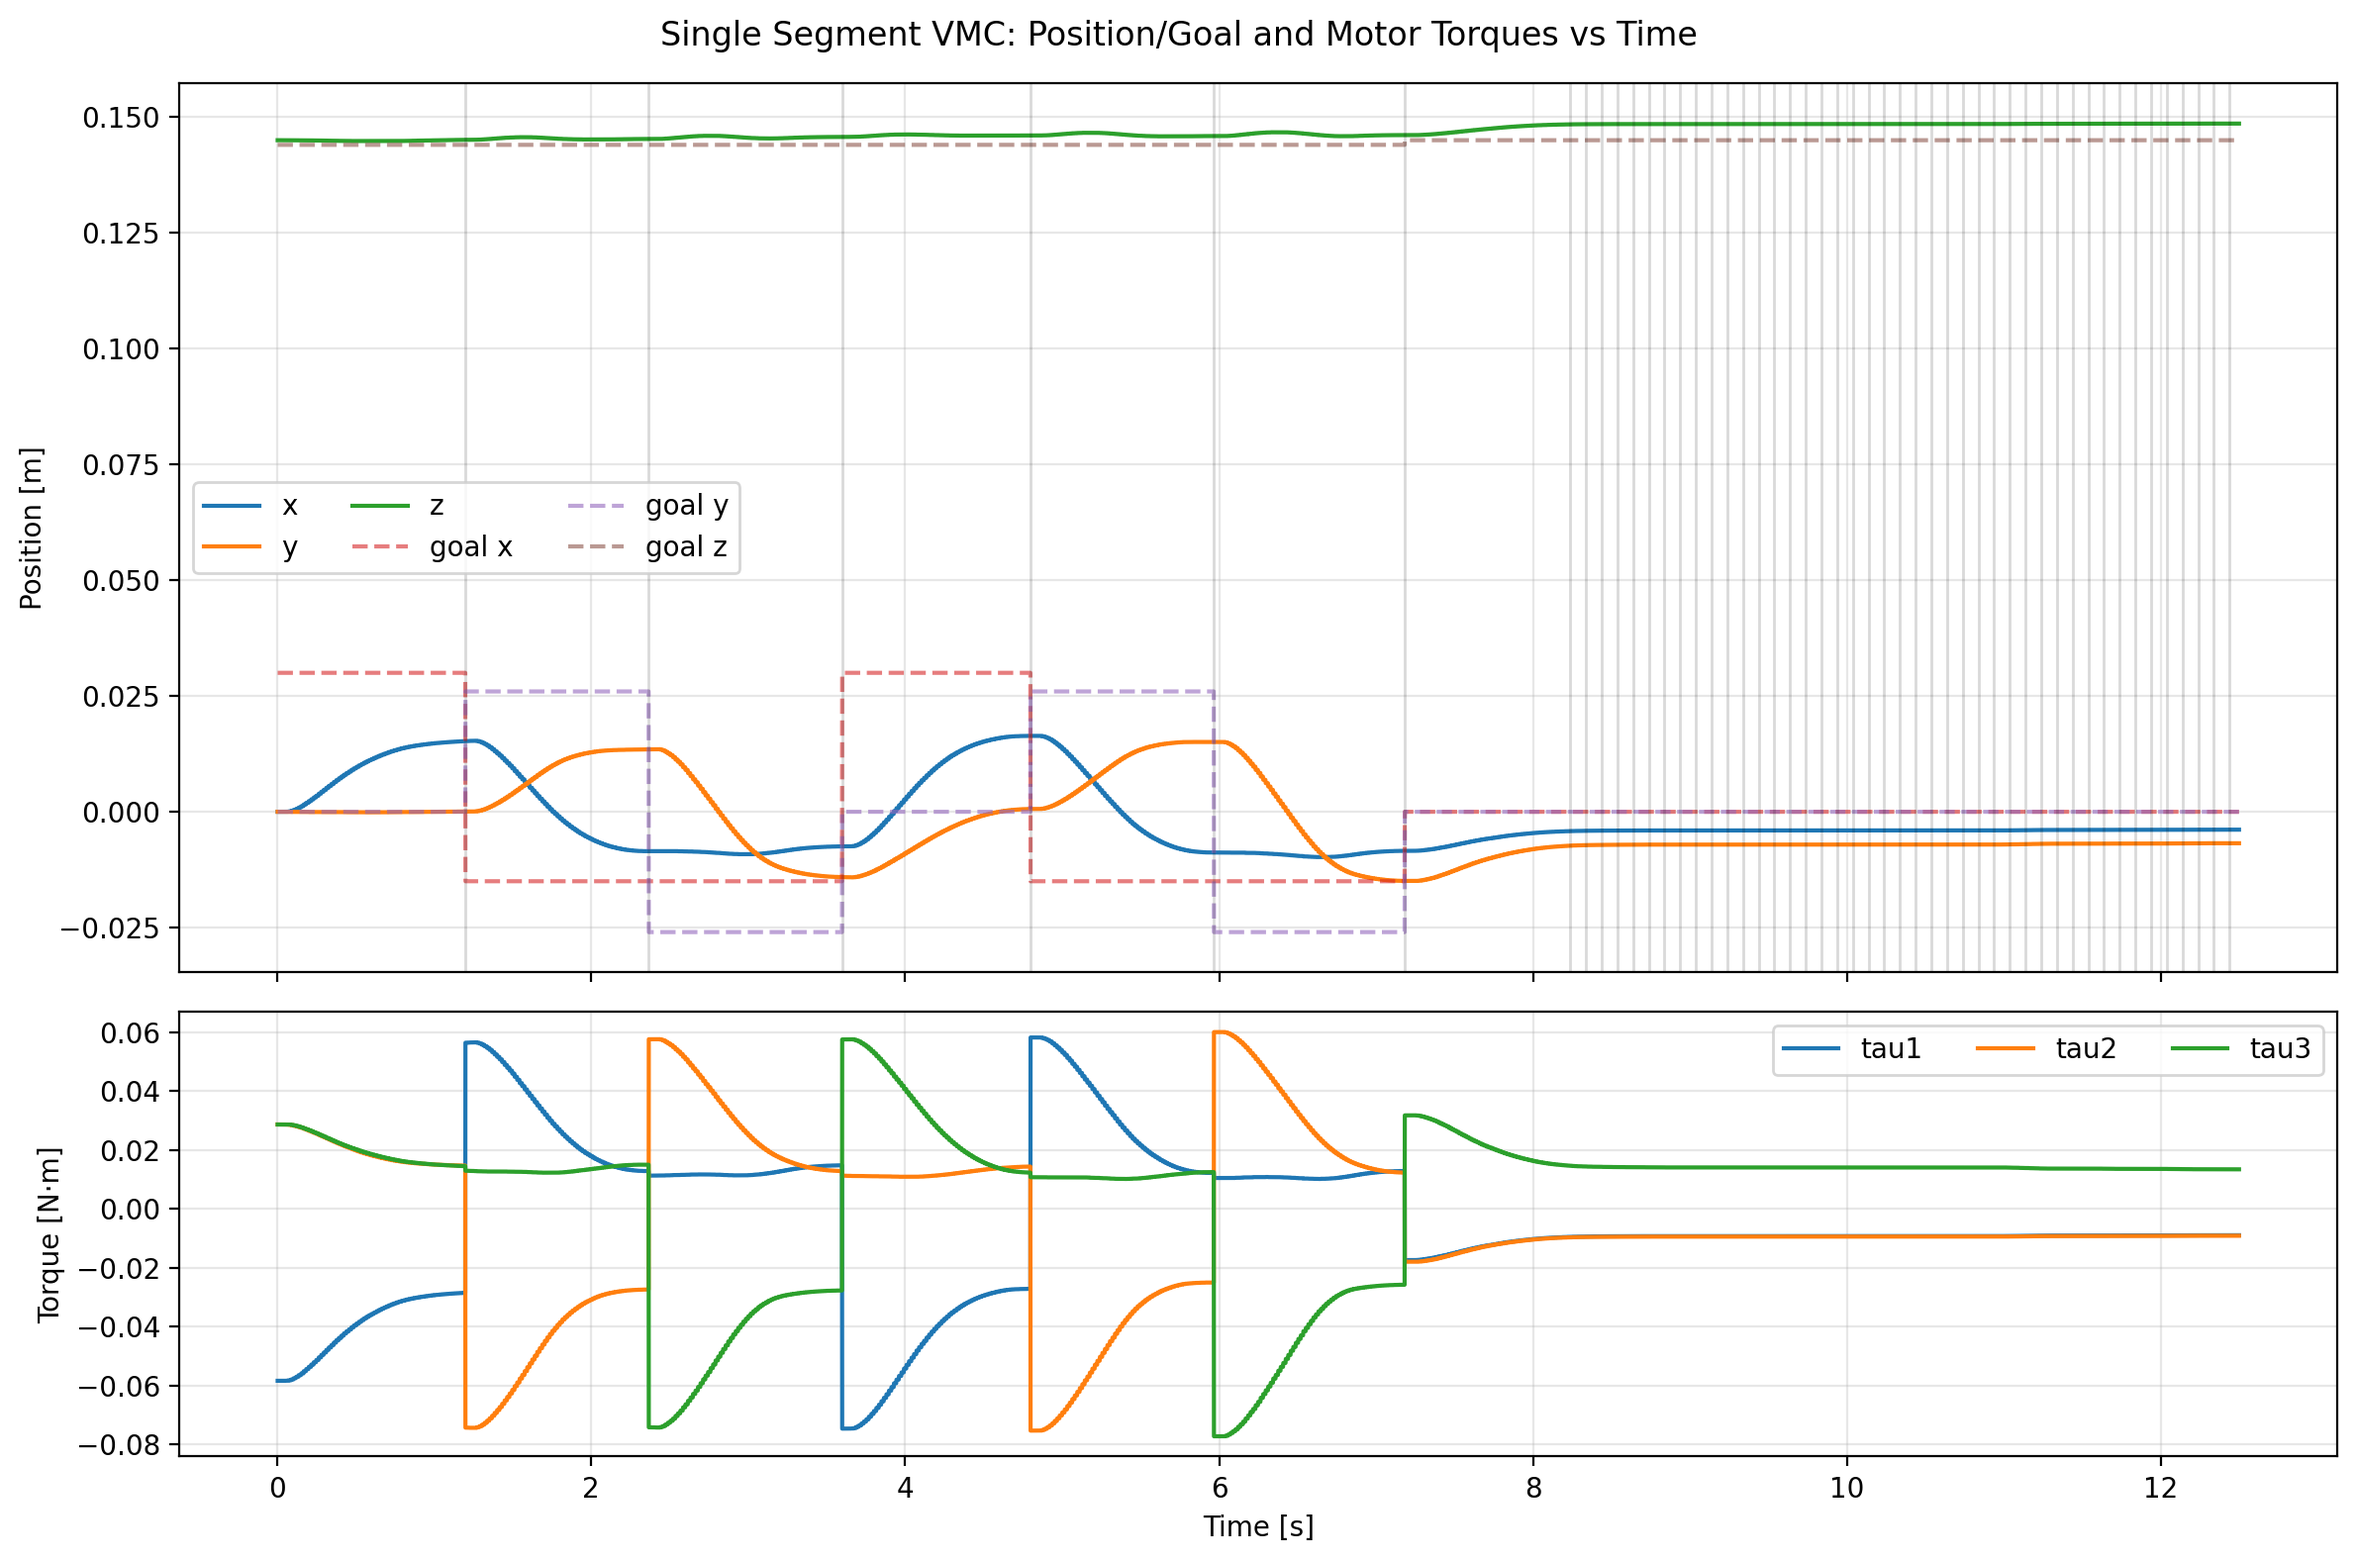
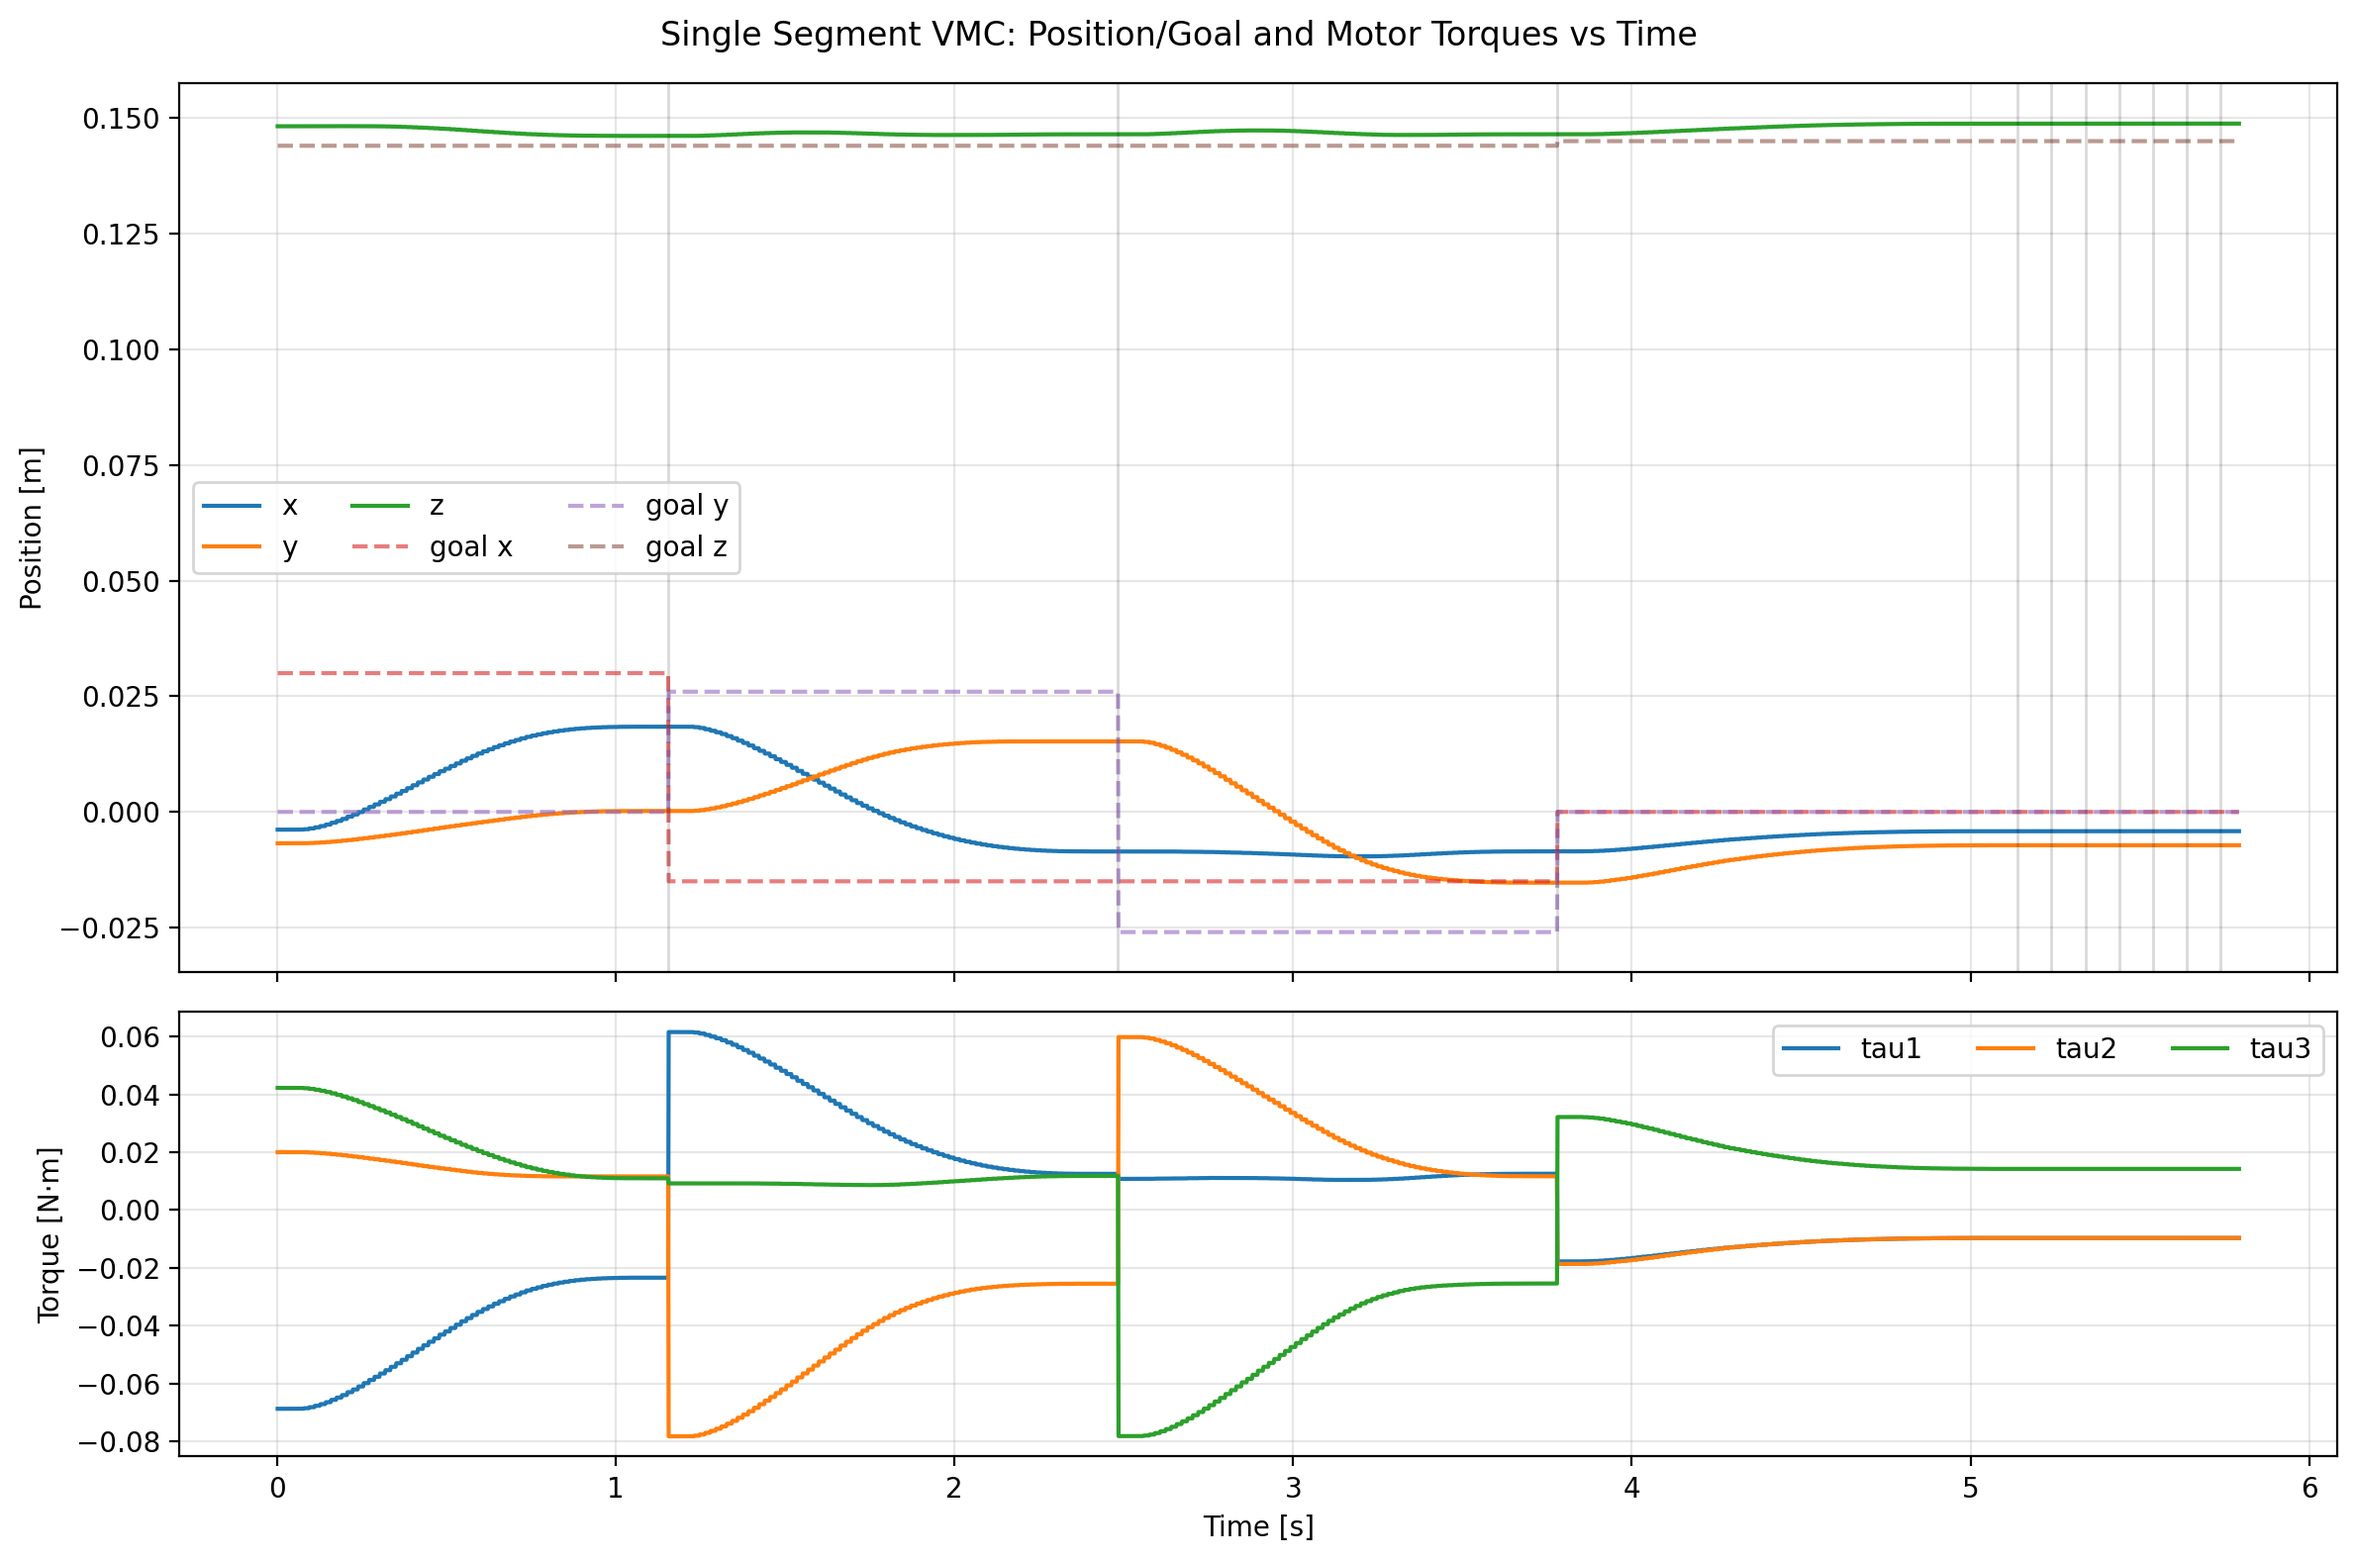
new implementation of control loop. Tested s_param = 1,0.9,0.8 see plots. only s=1 works well

diff --git a/SingleVMC/SingleVMC.py b/SingleVMC/SingleVMC.py
@@ -28,13 +28,13 @@ sys.path.insert(0, os.path.abspath(os.path.join(os.path.dirname(__file__), "..")
 from VMC_utils.VirtualModels import LinearDamper, LinearSpring, TanhSpring, TanhDamper, GaussianSpring
 
 from SingleController import SingleController, CONTROL_FREQUENCY
-from SingleVMCTaskSpace import VMC_Single_EE, VMC_Single
-from FK_Single import FK_Single_ee
+from SingleVMCTaskSpace import VMC_Single
+from FK_Single import FK_Single
 
 rclpy.init()
 controller = SingleController()
 
-# ------------------ Define waypoints in Cartesian space and constants ------------------
+# ------------------ Define waypoints in Cartesian space  ------------------
 
 # Positions in Cartesian space [x, y, z] (meters)
 POS_SCALE = 3
@@ -44,18 +44,18 @@ q3_short = np.array([-0.01*POS_SCALE*np.sin(np.pi/6), -0.01*POS_SCALE*np.cos(np.
 rest_pos = np.array([0.0, 0.0, 0.145])
 
 # Waypoints to follow
-waypoints      = [q1_short, q2_short, q3_short] # once waypoints completed we go to rest position 
+waypoints      = [q1_short, q2_short, q3_short, rest_pos] # once waypoints completed we go to rest position 
 waypoint_index = 0
 
+# ------------------ Control Loop constants and behavior control variables ------------------
+
 # Stability check for switching waypoints (switch when prev_pos = current_pos -> waypoint reached)
-q_motor_prev   = np.zeros(3)
 stable_count   = -50             # negative to allow some initial settling time before the first switch
 STABLE_STEPS   = 50              # must be stable for this many steps before switching
-max_iter       = 6
-print_var = 0
 
-# Safety limit for torques (N·m)
-TAU_LIMIT      = 0.1
+POS_TOLERANCE = 0.015 # [m] tolerance for considering a waypoint reached
+MOTOR_STOPPED_THRESHOLD = 0.1 # [rad/s] if motor velocity below this, consider it stopped
+TAU_LIMIT      = 0.1 # [N·m] Safety limit for torques 
 
 # ------------------- Different Springs and Dampers ------------------ 
 
@@ -68,10 +68,11 @@ gauss_spring = GaussianSpring(800, 0.03) # force amplitude [N], sigma [m]
 lin_damper  = LinearDamper(1.0)      # damping const [N·s/m] 
 tahn_damper = TanhDamper(1.0, 1.5)   # damping const [N·s/m], max force [N]
 
-vmc_ee = VMC_Single_EE(lin_spring, lin_damper)
-vmc    = VMC_Single(lin_spring, lin_damper, s_param=0.50) # spring/damper at middle of the segment
+# vmc_ee = VMC_Single_EE(lin_spring, lin_damper) # VMC_EE DEPRICATED USE VMC WITH S PARAM = 1.0 instead 
+vmc = VMC_Single(lin_spring, lin_damper, s_param=0.9) # spring/damper at middle of the segment
 
-# -------------------- Logging buffers --------------------
+# -------------------- Logging / Plotting --------------------
+SAVE_PLOT = True 
 
 t0 = time.perf_counter()
 
@@ -87,47 +88,38 @@ waypoint_event_goal = []
 # -------------------- Control loop ------------------
 
 def control_loop():
-    global waypoint_index, q_motor_prev, stable_count, max_iter
+    global waypoint_index, stable_count
 
     # State from ROS2 topics (degrees -> radians)
     q_motor     = np.radians(controller.get_joint_positions())
     q_motor_dot = np.radians(controller.get_joint_velocities())
 
-    if max_iter <= 0:
-        # print("Max iterations reached. Stopping.")
-        goal = rest_pos
-    else:
-        goal = waypoints[waypoint_index]
-    # VMC torques (Jacobian transpose of virtual spring/damper forces)
-    tau_vmc  = vmc.single_torques(q_motor, q_motor_dot, target_pos=goal)  # we can change the target on the fly for testing
-    
-     # Check if motors have stopped moving
-    if np.linalg.norm(q_motor - q_motor_prev) < 0.01: 
+    goal = waypoints[waypoint_index]
+    tau_vmc  = vmc.single_torques(q_motor, q_motor_dot, target_pos=goal) 
+    pose = FK_Single(q_motor, vmc.s_param) # [x,y,z,yaw,pitch,roll] 
+
+    # Check if motors have stopped moving
+    # print(np.linalg.norm(q_motor_dot))
+    if np.linalg.norm(q_motor_dot) < MOTOR_STOPPED_THRESHOLD: 
         stable_count += 1
     else:
         stable_count = 0   # reset if still moving
     
-    # Only switch after being stable for STABLE_STEPS consecutive steps
-    if stable_count >= STABLE_STEPS:
-        if max_iter > 0:
-            print(f"Reached waypoint {waypoint_index}: "f"{waypoints[waypoint_index]}")
-            print(f"Current q_motor: {q_motor}")
-            print(f"Current position: {FK_Single_ee(q_motor)}\n")
-        if max_iter == 0:
-            print(f"Rest position reached.")
-            print(f"Current q_motor: {q_motor}")
-            print(f"Current position: {FK_Single_ee(q_motor)}")
+    # Only switch waypoints after motors stopped moving 
+    if (stable_count >= STABLE_STEPS):
         stable_count = 0
-        waypoint_index = (waypoint_index + 1) % len(waypoints)
-        max_iter -= 1
+        if waypoint_index == len(waypoints) - 1:
+            print("Last waypoint reached")
+        else:
+            print(f"Reached waypoint {waypoint_index}: "f"{waypoints[waypoint_index]}")
+            print(f"Current position: {pose[:3]}\n")
+            waypoint_index = (waypoint_index + 1) % len(waypoints)
 
         # Record the waypoint switch event (time + next goal)
         t_now = time.perf_counter() - t0
-        next_goal = rest_pos if max_iter <= 0 else waypoints[waypoint_index]
+        next_goal = waypoints[waypoint_index]
         waypoint_event_t.append(t_now)
         waypoint_event_goal.append(next_goal.copy())
-
-    q_motor_prev = q_motor.copy()
 
     # Limit torque to 0.1 N·m for safety
     if np.any(np.abs(tau_vmc) > TAU_LIMIT):
@@ -136,9 +128,7 @@ def control_loop():
 
     # --- Log values for plotting ---
     t_now = time.perf_counter() - t0
-    ee_pose = FK_Single_ee(q_motor)      # [x,y,z,yaw,pitch,roll]
-    xyz = np.asarray(ee_pose[:3], dtype=float)
-
+    xyz = np.asarray(pose[:3], dtype=float)
     t_log.append(t_now)
     xyz_log.append(xyz)
     goal_log.append(goal.copy())
@@ -175,7 +165,7 @@ finally:
     # 3) Save plots
     if len(t_log) < 2:
         print("[WARN] Not enough data logged to plot.")
-    else:
+    elif SAVE_PLOT:
         t_arr    = np.asarray(t_log)
         xyz_arr  = np.asarray(xyz_log)     # (N,3)
         goal_arr = np.asarray(goal_log)    # (N,3)
@@ -224,5 +214,6 @@ finally:
 
         fig.savefig(out_path, dpi=200, bbox_inches="tight")
         plt.close(fig)
-
         print(f"[OK] Saved plot to: {out_path}")
+    else:
+        print("[INFO] Plot saving skipped (SAVE_PLOT=False).")

diff --git a/SingleVMC/SingleGoHome.py b/SingleVMC/SingleGoHome.py
@@ -45,9 +45,9 @@ PROFILE_VELOCITY   = 40   # ~9 rpm (slow/safe)
 # --- HOME POSITION (ABSOLUTE ticks) -----------------------------------------
 # Update: put robot in desired home pose, run with --read, copy values here.
 HOME_POSITION = {
-    1: 3901,
-    2: 1199,
-    3: 2158,
+    1: 100,
+    2: 1019,
+    3: 2174,
 }
 
 def init_bus():

diff --git a/SingleVMC/FK_Single.py b/SingleVMC/FK_Single.py
@@ -97,7 +97,7 @@ def FK_Single_ee(q_motor):
 
     return pose
 
-def FK_Single(q_motor, s_param):
+def FK_Single(q_motor, s_param = 1.0):
     """
     Forward kinematics for the single VMC.
     Args: q_motor: [q1, q2, q3] motor angles [rad]
